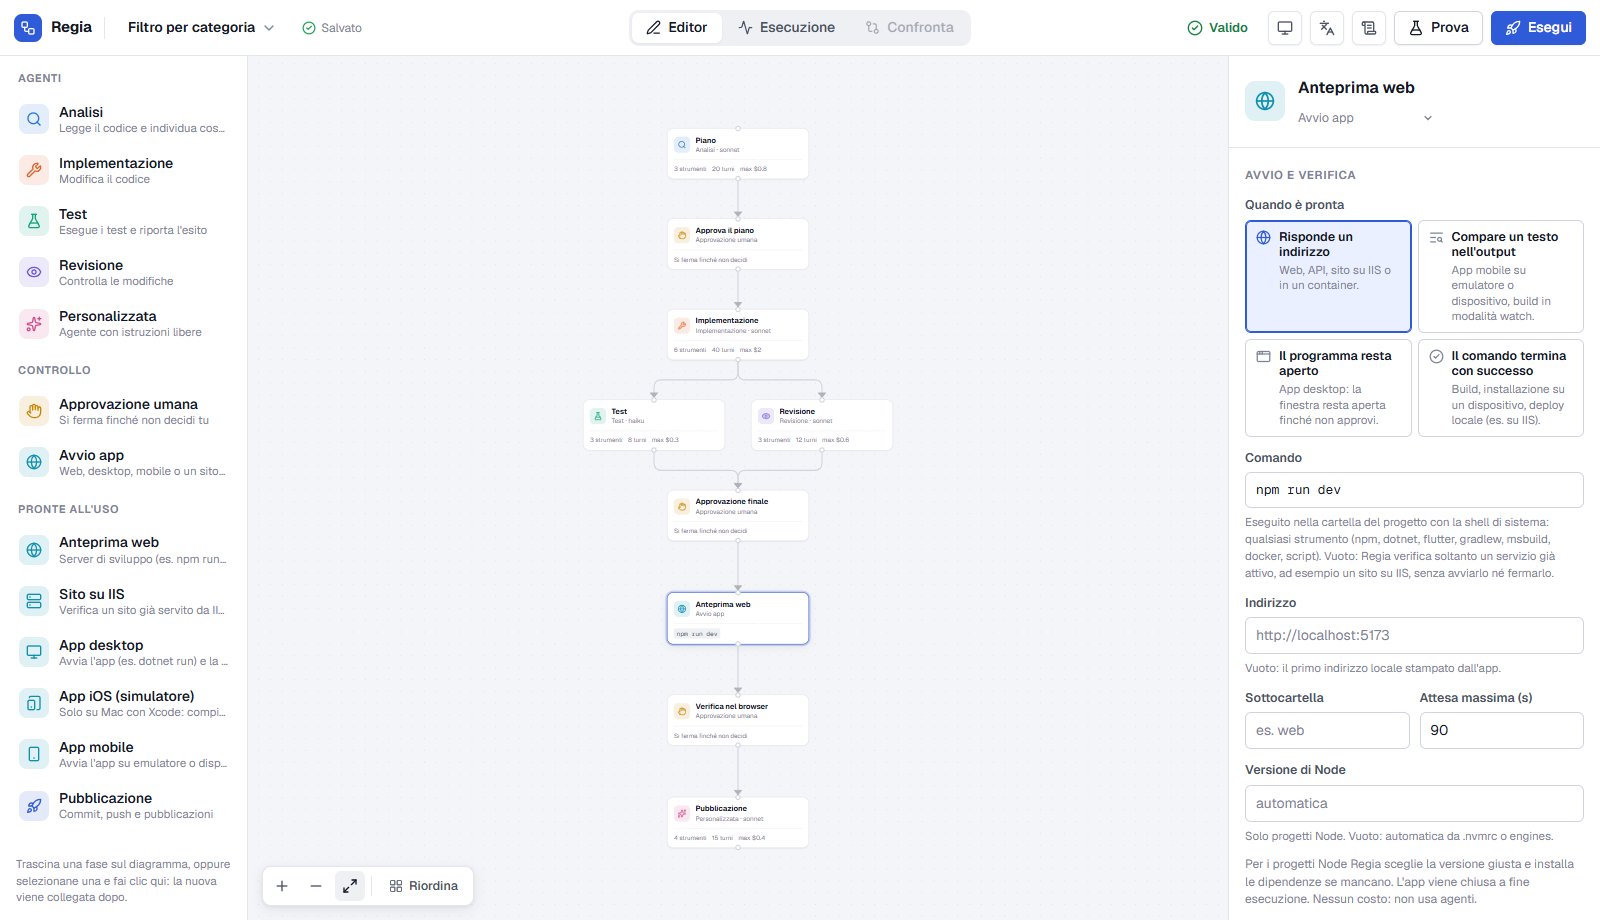
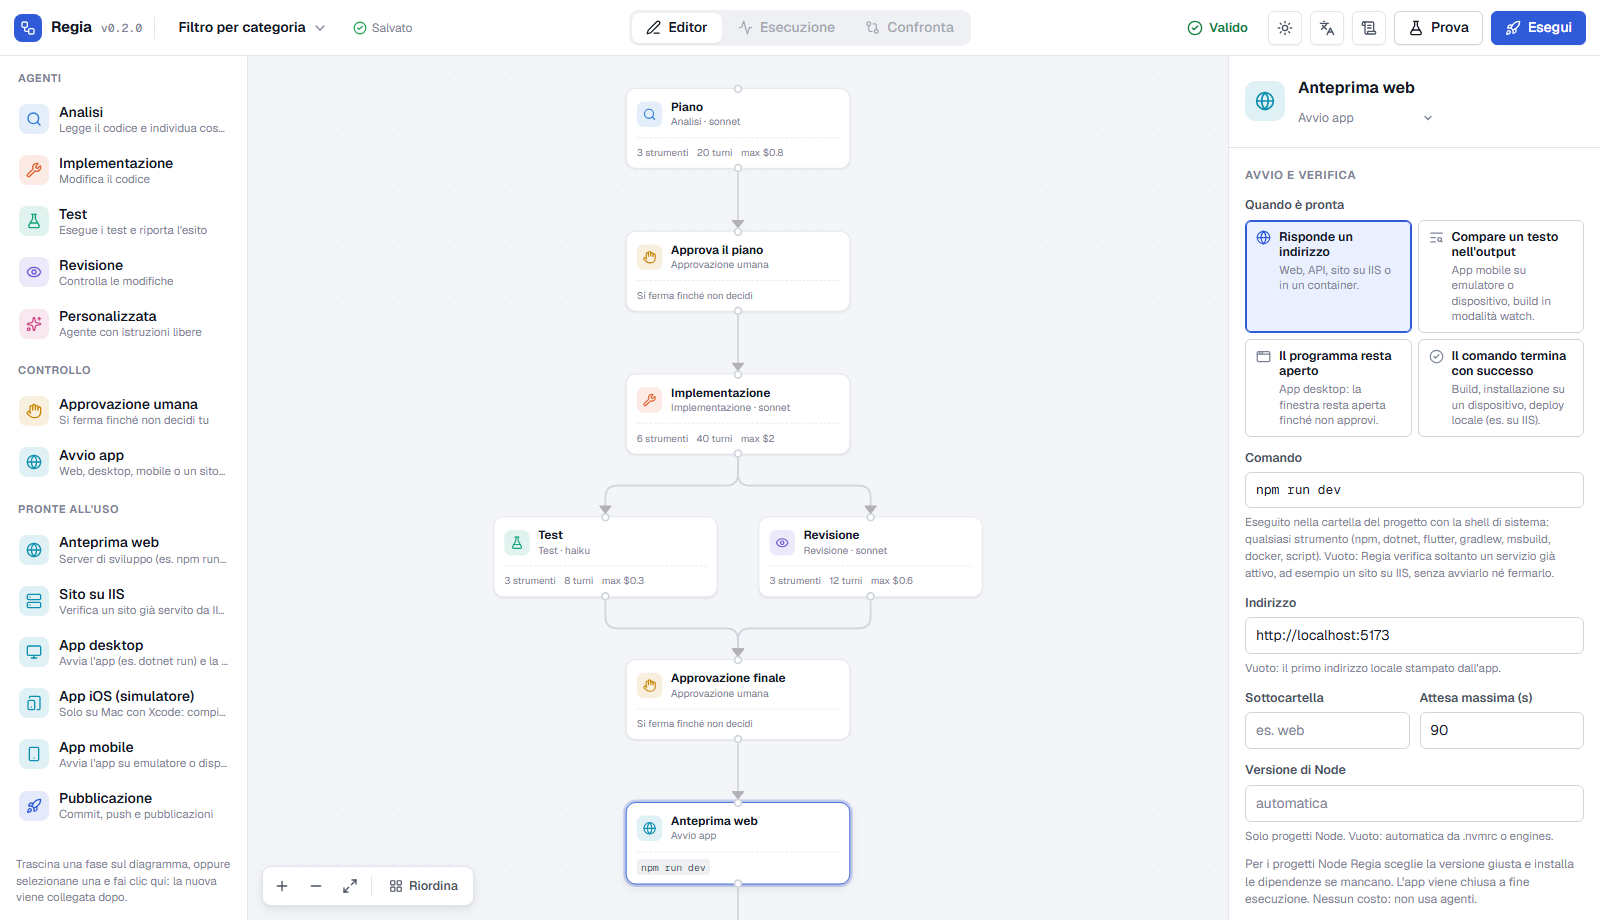
Refresh screenshots and document design principles and update notice
All screenshots are retaken with the current interface, including two new ones for design principles. The manuals explain how the update notice works and how to update with git pull; the README lists the new features.

diff --git a/docs/manuale.md b/docs/manuale.md
@@ -32,6 +32,15 @@ Apri **http://127.0.0.1:4317** e lascia aperto il terminale finché usi Regia. C
 
 **Requisiti**: Node.js 20 o superiore. Per le esecuzioni reali serve [Claude Code](https://docs.claude.com/en/docs/claude-code) con un login attivo (verifica con `claude auth status`), oppure la variabile `ANTHROPIC_API_KEY`. Non serve aprire Claude Code: Regia usa le sue credenziali.
 
+**Aggiornamenti**: la versione in uso compare accanto al nome Regia, in alto a sinistra. Quando sul repository GitHub ne esce una più recente, al suo posto compare un avviso (`v0.1.0 → v0.2.0`): cliccandolo vedi i comandi per aggiornare. L'aggiornamento è manuale, dalla cartella di Regia:
+
+```bash
+git pull
+npm install
+```
+
+poi riavvia con `npm start`. Il controllo legge solo il numero di versione pubblicato e si può disattivare con `REGIA_UPDATE_CHECK=0`.
+
 ---
 
 ## 2. Crea un workflow
@@ -93,7 +102,7 @@ Quando il workflow si ferma, la scheda **Stato** mostra cosa serve:
 
 ### Verificare l'app: web, desktop, mobile
 
-![Anteprima locale](img/05-anteprima-locale.png)
+![Verifica dell'app prima di approvare](img/05-anteprima-locale.png)
 
 Regia non è legata a una tecnologia: gli agenti lavorano con gli strumenti del progetto (npm, dotnet, msbuild, gradle, flutter, Xcode, docker…) tramite lo strumento Bash. La fase **Avvio app** serve a vedere il risultato prima di approvare. Esegue un comando qualsiasi nella cartella del progetto e attende che l'app sia pronta, secondo il criterio scelto in **Quando è pronta**:
 
@@ -178,6 +187,8 @@ Ogni esecuzione salva le regole che ha usato.
 
 ### Principi di progettazione
 
+![Principi di progettazione](img/12-principi.png)
+
 Nelle impostazioni del workflow (e alla creazione) la sezione **Principi di progettazione** ha un interruttore per ogni principio; si possono combinare:
 
 - **KISS** (Keep It Simple): la soluzione più semplice che risolve il problema reale;
@@ -185,7 +196,11 @@ Nelle impostazioni del workflow (e alla creazione) la sezione **Principi di prog
 - **DRY** (Don't Repeat Yourself): una sola fonte per ogni conoscenza, senza astrazioni premature;
 - **SOLID**: responsabilità singola, aperto/chiuso, sostituibilità, interfacce piccole, dipendenze dalle astrazioni.
 
-Ogni fase riceve indicazioni adatte al suo tipo: l'analisi propone la soluzione coerente con il principio, l'implementazione lo applica, i test e la revisione lo verificano. Le approvazioni mostrano una checklist da controllare. Le istruzioni che scrivi nelle fasi non vengono toccate: le indicazioni si aggiungono al momento dell'esecuzione, e spegnendo l'interruttore spariscono. Nell'ispettore di ogni fase, sotto le istruzioni, puoi leggere cosa verrà aggiunto. Il registro dell'esecuzione indica i principi applicati.
+Ogni fase riceve indicazioni adatte al suo tipo: l'analisi propone la soluzione coerente con il principio, l'implementazione lo applica, i test e la revisione lo verificano. Le approvazioni mostrano una checklist da controllare. Le istruzioni che scrivi nelle fasi non vengono toccate: le indicazioni si aggiungono al momento dell'esecuzione, e spegnendo l'interruttore spariscono. Nell'ispettore di ogni fase, sotto le istruzioni, puoi leggere cosa verrà aggiunto.
+
+![Indicazioni aggiunte a una fase](img/13-principi-fase.png)
+
+Il registro dell'esecuzione indica i principi applicati.
 
 ### Skill
 

diff --git a/docs/manual.md b/docs/manual.md
@@ -30,6 +30,15 @@ Open **http://127.0.0.1:4317** and keep the terminal open while you use Regia. C
 
 **Requirements**: Node.js 20 or later. Real runs need [Claude Code](https://docs.claude.com/en/docs/claude-code) with an active login (check with `claude auth status`), or the `ANTHROPIC_API_KEY` environment variable. You don't need to open Claude Code: Regia uses its credentials.
 
+**Updates**: the version in use is shown next to the Regia name, at the top left. When a newer one is published on the GitHub repository, a notice appears in its place (`v0.1.0 → v0.2.0`): click it to see the commands to update. Updating is manual, from the Regia folder:
+
+```bash
+git pull
+npm install
+```
+
+then restart with `npm start`. The check only reads the published version number and can be turned off with `REGIA_UPDATE_CHECK=0`.
+
 ---
 
 ## 2. Create a workflow
@@ -91,7 +100,7 @@ When the workflow stops, the **Status** tab shows what is needed:
 
 ### Checking the app: web, desktop, mobile
 
-![Local preview](img/05-anteprima-locale.png)
+![Checking the app before approving](img/05-anteprima-locale.png)
 
 Regia is not tied to a technology: agents work with the project's own tools (npm, dotnet, msbuild, gradle, flutter, Xcode, docker…) through the Bash tool. The **Run app** phase lets you see the result before approving. It runs any command in the project folder and waits until the app is ready, according to the criterion chosen in **Ready when**:
 
@@ -176,6 +185,8 @@ Each run stores the rules it used.
 
 ### Design principles
 
+![Design principles](img/12-principi.png)
+
 In the workflow settings (and when creating it) the **Design principles** section has a switch for each principle; they can be combined:
 
 - **KISS** (Keep It Simple): the simplest solution that solves the real problem;
@@ -183,7 +194,11 @@ In the workflow settings (and when creating it) the **Design principles** sectio
 - **DRY** (Don't Repeat Yourself): a single source for every piece of knowledge, without premature abstractions;
 - **SOLID**: single responsibility, open/closed, substitutability, small interfaces, depending on abstractions.
 
-Each phase receives guidance suited to its type: analysis proposes the solution that fits the principle, implementation applies it, tests and review check it. Approvals show a checklist to go through. The instructions you write in the phases are left untouched: the guidance is added at run time, and turning the switch off removes it. In each phase's inspector, below the instructions, you can read what will be added. The run log lists the principles applied.
+Each phase receives guidance suited to its type: analysis proposes the solution that fits the principle, implementation applies it, tests and review check it. Approvals show a checklist to go through. The instructions you write in the phases are left untouched: the guidance is added at run time, and turning the switch off removes it. In each phase's inspector, below the instructions, you can read what will be added.
+
+![Guidance added to a phase](img/13-principi-fase.png)
+
+The run log lists the principles applied.
 
 ### Skills
 

diff --git a/README.md b/README.md
@@ -10,7 +10,7 @@ Regia is a local app for designing development workflows as a diagram, running t
 
 ## What it does
 
-- **Visual editor**: analysis, implementation, test, review, human approval, local server and publishing phases, connected into a flow. Start from ready-made presets.
+- **Visual editor**: analysis, implementation, test, review, human approval, run app and publishing phases, connected into a flow. Start from ready-made presets.
 - **Live execution**: the state of every phase on the diagram, plus events, results, errors and the decisions declared by the agents.
 - **Interventions**: approve, reject with a comment (the agent resumes its own session), retry, skip, cancel.
 - **Check the app before approving**: web, desktop or mobile, iOS included on a Mac. Regia runs the project's own command (npm, dotnet, flutter, gradle, msbuild…) and waits for an address, an output line, an open window or a successful exit; it can also just check a site already served by IIS. For Node projects it also picks the right Node version.
@@ -18,8 +18,10 @@ Regia is a local app for designing development workflows as a diagram, running t
 - **Optimization**: suggestions based on measured data, each with its quality trade-off, and a side-by-side comparison of two runs.
 - **Continue**: add phases to finished work without re-running everything.
 - **General rules**: your personal rules and Regia's own rules are applied to every agent.
+- **Design principles**: turn on KISS, YAGNI, DRY or SOLID for a workflow; each phase gets guidance suited to its task and approvals get a checklist, without touching your instructions.
 - **Skills**: phases can use the Claude Code skills of the project or your personal ones, chosen per phase.
 - **Trial mode**: explore everything with simulated agents, at no cost.
+- **Update notice**: the version in use is shown in the interface, with a notice when a newer one is on GitHub (update with `git pull`).
 - **Languages**: Italian and English included; interface, messages and agent instructions come from JSON files, so a new language needs no code changes.
 
 ## Quick start
@@ -52,7 +54,7 @@ Open <http://127.0.0.1:4317>, create a workflow from a preset and press **Prova*
 
 ```bash
 npm run dev        # server and UI with hot reload (http://127.0.0.1:5173)
-npm test           # usage accounting, execution engine, local server
+npm test           # usage accounting, execution engine, Run app phase
 npm run typecheck
 ```
 
